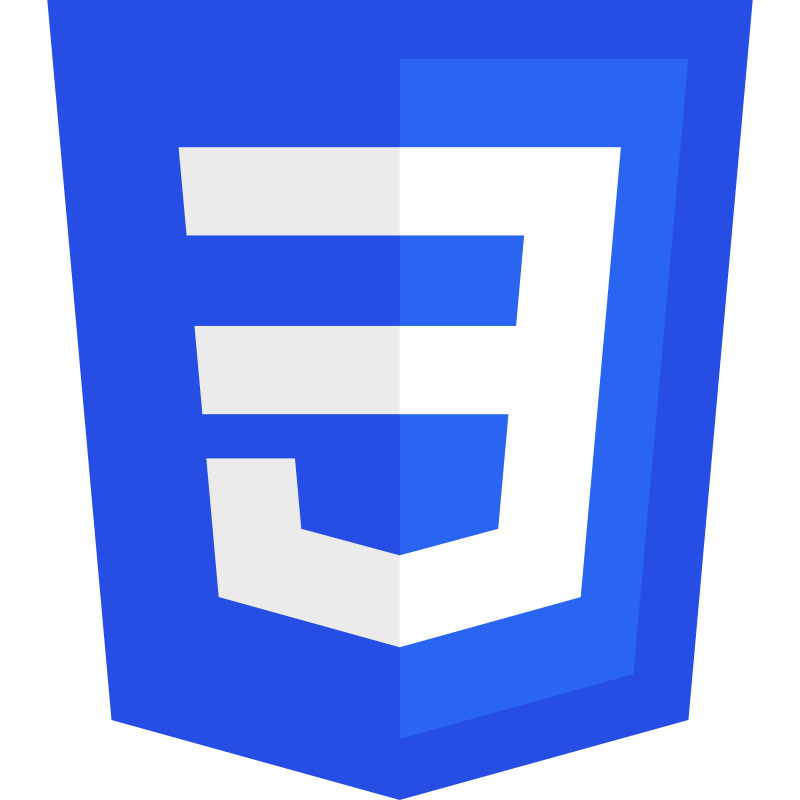
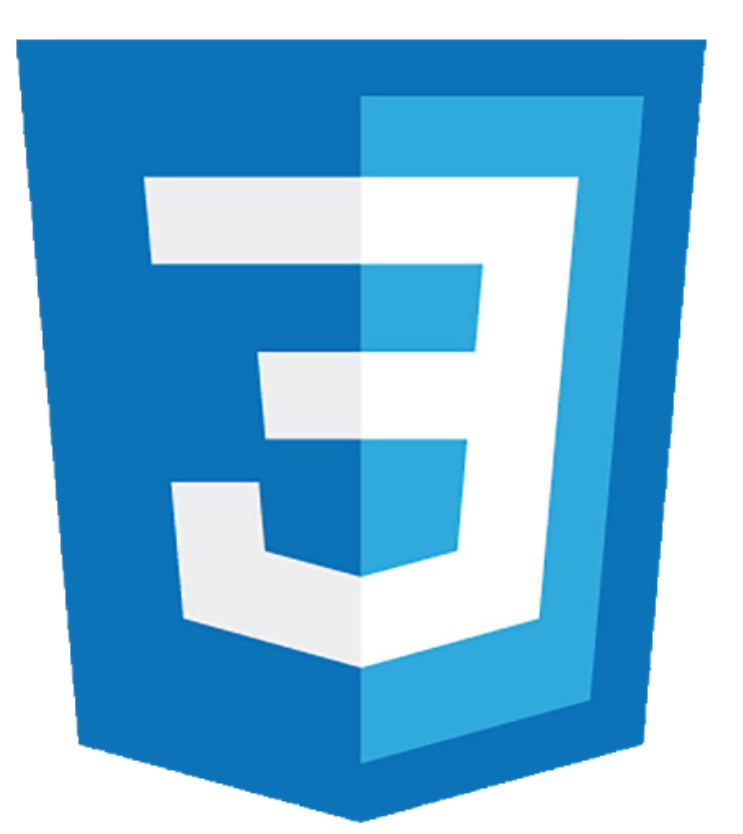
Fixed some of the visuals
Changed out the html, css, and javascript icons. Added C.

diff --git a/mystyle1.css b/mystyle1.css
@@ -171,6 +171,7 @@ body {
 }
 .container3 {
     display: flex;
+    flex-wrap:wrap;
     
     background-color: #3d516d;
     height: 30em;
@@ -301,6 +302,50 @@ body {
     margin: 1em;
 }
 .item3_6 {
+    display: flex;
+    flex: 0 1 auto;
+    border: solid 2px transparent;
+    border-radius: 0.5em;
+    background-color: #3d516d;
+    max-height: 80%;
+    max-width: 6em;
+    margin-bottom: 0.3em;
+}
+
+.item3_7container{
+    display: flex;
+    flex-direction: column;
+    flex: 1 1 auto;
+    border: solid 2px transparent;
+    border-radius: 0.5em;
+    background-color: #3d516d;
+    height: 7.5em;
+    max-width: 6em;
+    margin: 1em;
+}
+.item3_7 {
+    display: flex;
+    flex: 0 1 auto;
+    border: solid 2px transparent;
+    border-radius: 0.5em;
+    background-color: #3d516d;
+    max-height: 80%;
+    max-width: 6em;
+    margin-bottom: 0.3em;
+}
+
+.item3_8container{
+    display: flex;
+    flex-direction: column;
+    flex: 1 1 auto;
+    border: solid 2px transparent;
+    border-radius: 0.5em;
+    background-color: #3d516d;
+    height: 7.5em;
+    max-width: 6em;
+    margin: 1em;
+}
+.item3_8 {
     display: flex;
     flex: 0 1 auto;
     border: solid 2px transparent;

diff --git a/index.html b/index.html
@@ -68,12 +68,24 @@
       </div>
       <div class="item3_5container">
         <div class="item3_5">
+          <img width="90px" height="90px" src="js.png" />
+        </div>
+        <p class="underneath">JavaScript</p>
+      </div>
+      <div class="item3_6container">
+        <div class="item3_6">
+          <img width="90px" height="90px" src="c.png" />
+        </div>
+        <p class="underneath">C</p>
+      </div>
+      <div class="item3_7container">
+        <div class="item3_7">
           <img width="90px" height="90px" src="git.png" />
         </div>
         <p class="underneath">Git</p>
       </div>
-      <div class="item3_6container">
-        <div class="item3_6">
+      <div class="item3_8container">
+        <div class="item3_8">
           <img width="90px" height="90px" src="github.png" />
         </div>
         <p class="underneath">GitHub</p>
